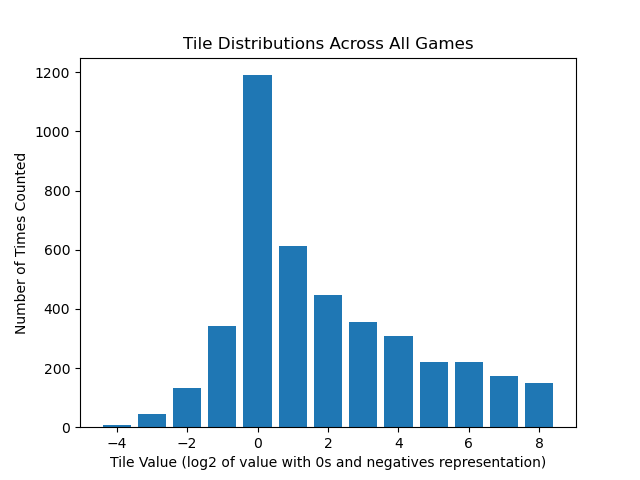
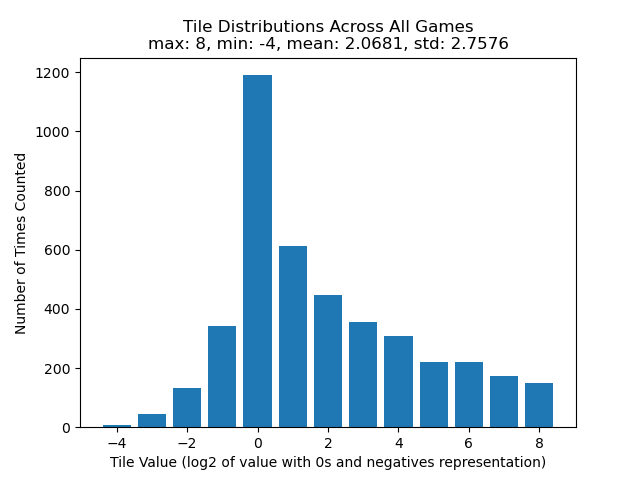
Updated image labels

Changed region(s): [[0.2188, 0.0312, 0.8125, 0.125]]

diff --git a/test.py b/test.py
@@ -276,7 +276,7 @@ def visualize_data(turns, max_tiles, min_tiles, piece_distributions, filename, p
     plt.bar(all_tiles, all_counts)
     plt.xlabel("Tile Value (log2 of value with 0s and negatives representation)")
     plt.ylabel("Number of Times Counted")
-    plt.title(f'Tile Distributions Across All Games')
+    plt.title(f'Tile Distributions Across All Games\nmax: {max(all_tiles)}, min: {min(all_tiles)}, mean: {round(np.mean(all_tiles), 4)}, std: {round(np.std(all_tiles), 4)}')
     plt.savefig(filename + "_tile_dist")
 
     # Show the plot
